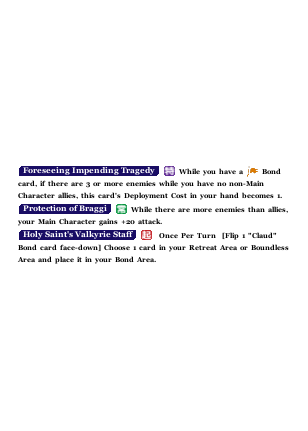
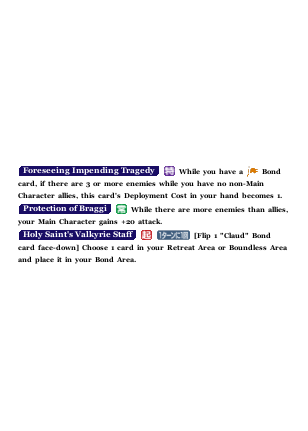
AM03 pog fix

Changed region(s): [[0.0584, 0.5128, 0.9351, 0.6334]]

diff --git a/basecreation/skillCreator.py b/basecreation/skillCreator.py
@@ -55,7 +55,7 @@ def createSkills(skills, cardName, border, fname):
     ### adding the skills
     # line character limit 60, pixel length is 1090
     # get rows
-    fontsize = 9
+    fontsize = 7
     font = ImageFont.truetype('georgiab.ttf', fontsize)
     charwid = 3
     rowheight = 12

diff --git a/basecreation/run_create_skill.py b/basecreation/run_create_skill.py
@@ -1,7 +1,7 @@
 from skillCreator import createSkills
 import sys, threading
 
-fname = "AM03ft9"
+fname = "AM03ft7"
 f = open("inputAM03.txt", "r", encoding="utf-8")
 
 nextline = f.readline()
